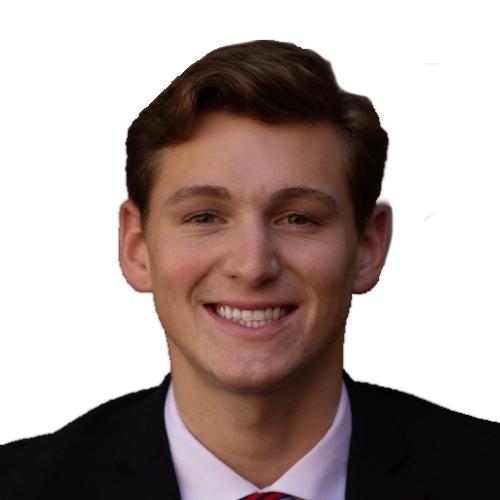
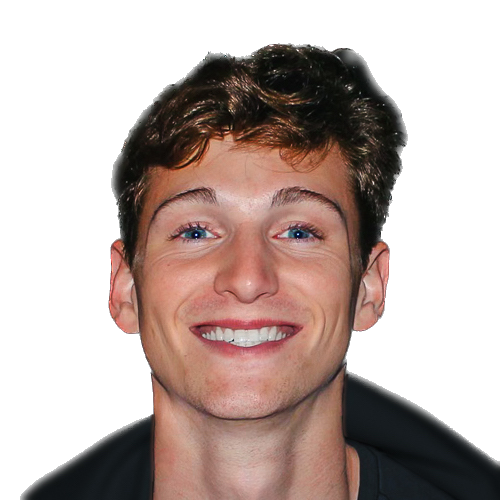
changepic and buttons

diff --git a/src/components/section/ProfileSection.tsx b/src/components/section/ProfileSection.tsx
@@ -17,64 +17,70 @@ import Paragraph from "../Paragraph";
 import { resume } from "../../constant";
 import SocialButton from "../SocialButton";
 import { BiPhoneCall } from "react-icons/bi";
+import { Container } from "@chakra-ui/react";
 
 interface IProfileSection {
-  
+
 }
 
-const ProfileSection: React.FC<IProfileSection> = ({  }) => {
+const ProfileSection: React.FC<IProfileSection> = ({ }) => {
   return (
-    <SlideFade in offsetY={80}>
-      <Box>
-        <Flex alignItems="center" justifyContent="space-between" >
-          <VStack>
+
+    <SlideFade in offsetY={80} >
+      {/* <Box > */}
+
+      <Flex alignItems="center" justifyContent="space-between"  >
+        <VStack >
           <Heading
             as="h1"
             fontSize={{ base: "28px", md: "40px", lg: "48px" }}
             mb={3}
+
           >
             Michael Orscheln <span className="lightning-bolt">⚡</span>
           </Heading>
           {/* <Flex justifyContent={"center"} alignItems="center"> */}
-        <Paragraph textProps={{ fontSize: "2xl", lineHeight: 1.6, alignContent: "center" }}>
-          Computer Engineering Student at the University of Alabama 🐘
-        </Paragraph>
-        <Paragraph textProps={{ fontSize: "2xl", lineHeight: 1.6 }}>
-          From Overland Park, KS
-        </Paragraph>
-        {/* </Flex> */}
+          <Paragraph textProps={{ fontSize: "2xl", lineHeight: 1.6, alignContent: "left" }}>
+            Computer Engineering Student at the University of Alabama 🐘
+          </Paragraph>
+          <Paragraph textProps={{ fontSize: "2xl", lineHeight: 1.6 }}>
+            From Overland Park, KS
+          </Paragraph>
+          {/* </Flex> */}
         </VStack>
-          <Flex alignItems={["flex-end", ""]} >
-            <Image
-              alt="Michael Orscheln"
-              src="/headshot_small.png"
-              mb={5}
-              rounded="full"
-            />
-          </Flex>
-          
+        <Flex >
+          <Image
+            alt="Michael Orscheln"
+            src="/Michael.png"
+            mb={5}
+            rounded="50"
+            w="25rem"
+          />
         </Flex>
-        
 
-        <Flex mt={5} justifyContent = "center">
-          <ButtonGroup>
-            <SocialButton social={resume} />
-            <Link href={"/contact"} style={{ textDecoration: "none" }}>
-              <Button
-                colorScheme="blue"
-                size="sm"
-                margin={"5px"}
-                leftIcon={<BiPhoneCall />}
-              >
-                Contact Me
-              </Button>
-            </Link>
-          </ButtonGroup>
-        </Flex>
-        
+      </Flex>
 
-      </Box>
+
+      <Flex mt={5} justifyContent="center">
+        <ButtonGroup>
+          <SocialButton social={resume} />
+          <Link href={"/contact"} style={{ textDecoration: "none" }}>
+            <Button
+              colorScheme="blue"
+              size="md"
+              margin={"5px"}
+              leftIcon={<BiPhoneCall />}
+            >
+              Contact Me
+            </Button>
+          </Link>
+        </ButtonGroup>
+      </Flex>
+
+
+      {/* </Box> */}
     </SlideFade>
+
   );
 };
 

diff --git a/src/pages/about.tsx b/src/pages/about.tsx
@@ -19,21 +19,22 @@ function About() {
   const { colorMode } = useColorMode();
 
   return (
-    <>
-    <NavBar></NavBar>
-    <Container maxW="container.lg" mt={"5rem"}> 
-    
-    <ProfileSection></ProfileSection>
-      
-       
-      
-      <Footer></Footer>
-      
-    </Container>
-    
-    
-    </>
-        
+    <div className="overflow-scroll z-0 justify-center">
+      <NavBar />
+      {/* <Container maxW="container.lg" mt={"5rem"}>  */}
+      <Container justifyContent="center" alignItems={"center"} flexDirection="column" maxW={"80rem"} mt="4.5rem">
+
+        <ProfileSection></ProfileSection>
+
+
+
+        <Footer></Footer>
+
+      </Container>
+
+
+    </div>
+
   );
 }
 

diff --git a/src/components/SocialButton.tsx b/src/components/SocialButton.tsx
@@ -4,6 +4,7 @@ import { Social } from "../types/social";
 
 interface ISocialButton {
   social: Social;
+
 }
 
 const SocialButton: React.FC<ISocialButton> = ({ social }) => {
@@ -11,7 +12,7 @@ const SocialButton: React.FC<ISocialButton> = ({ social }) => {
     <Link href={social.url} isExternal style={{ textDecoration: "none" }}>
       <Button
         colorScheme="blue"
-        size="sm"
+        size="md"
         margin={"5px"}
         leftIcon={social.icon}
       >
